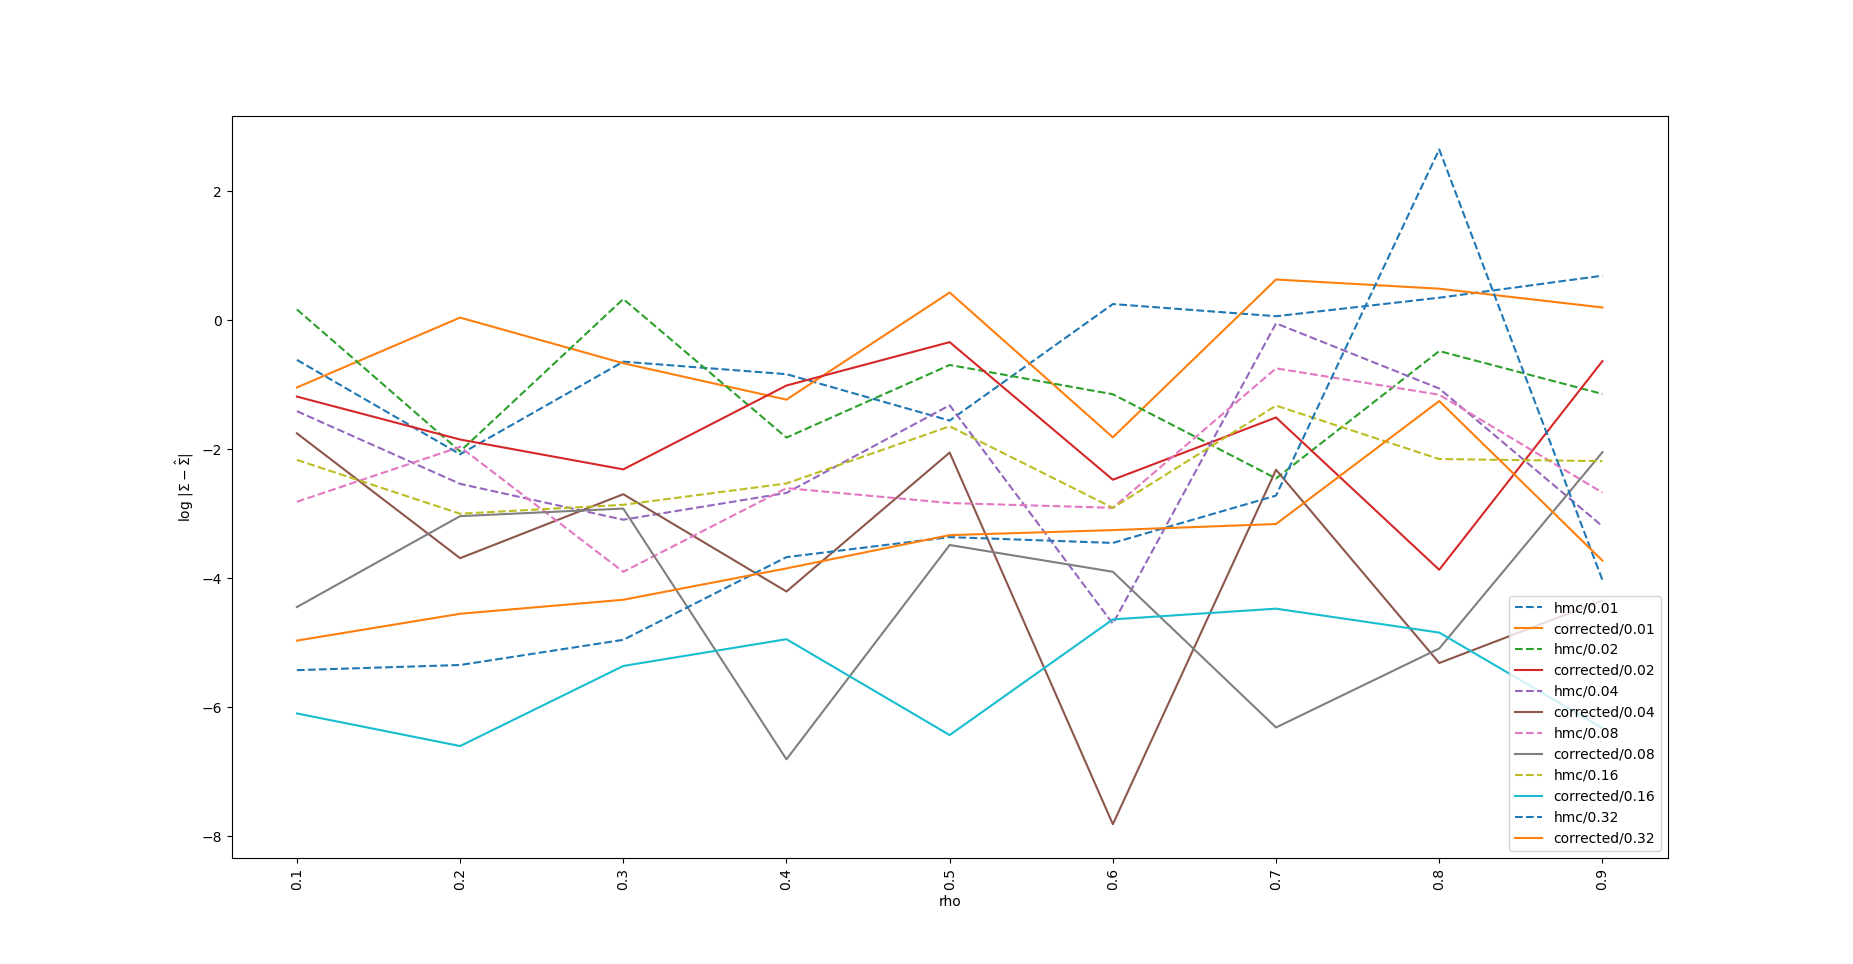
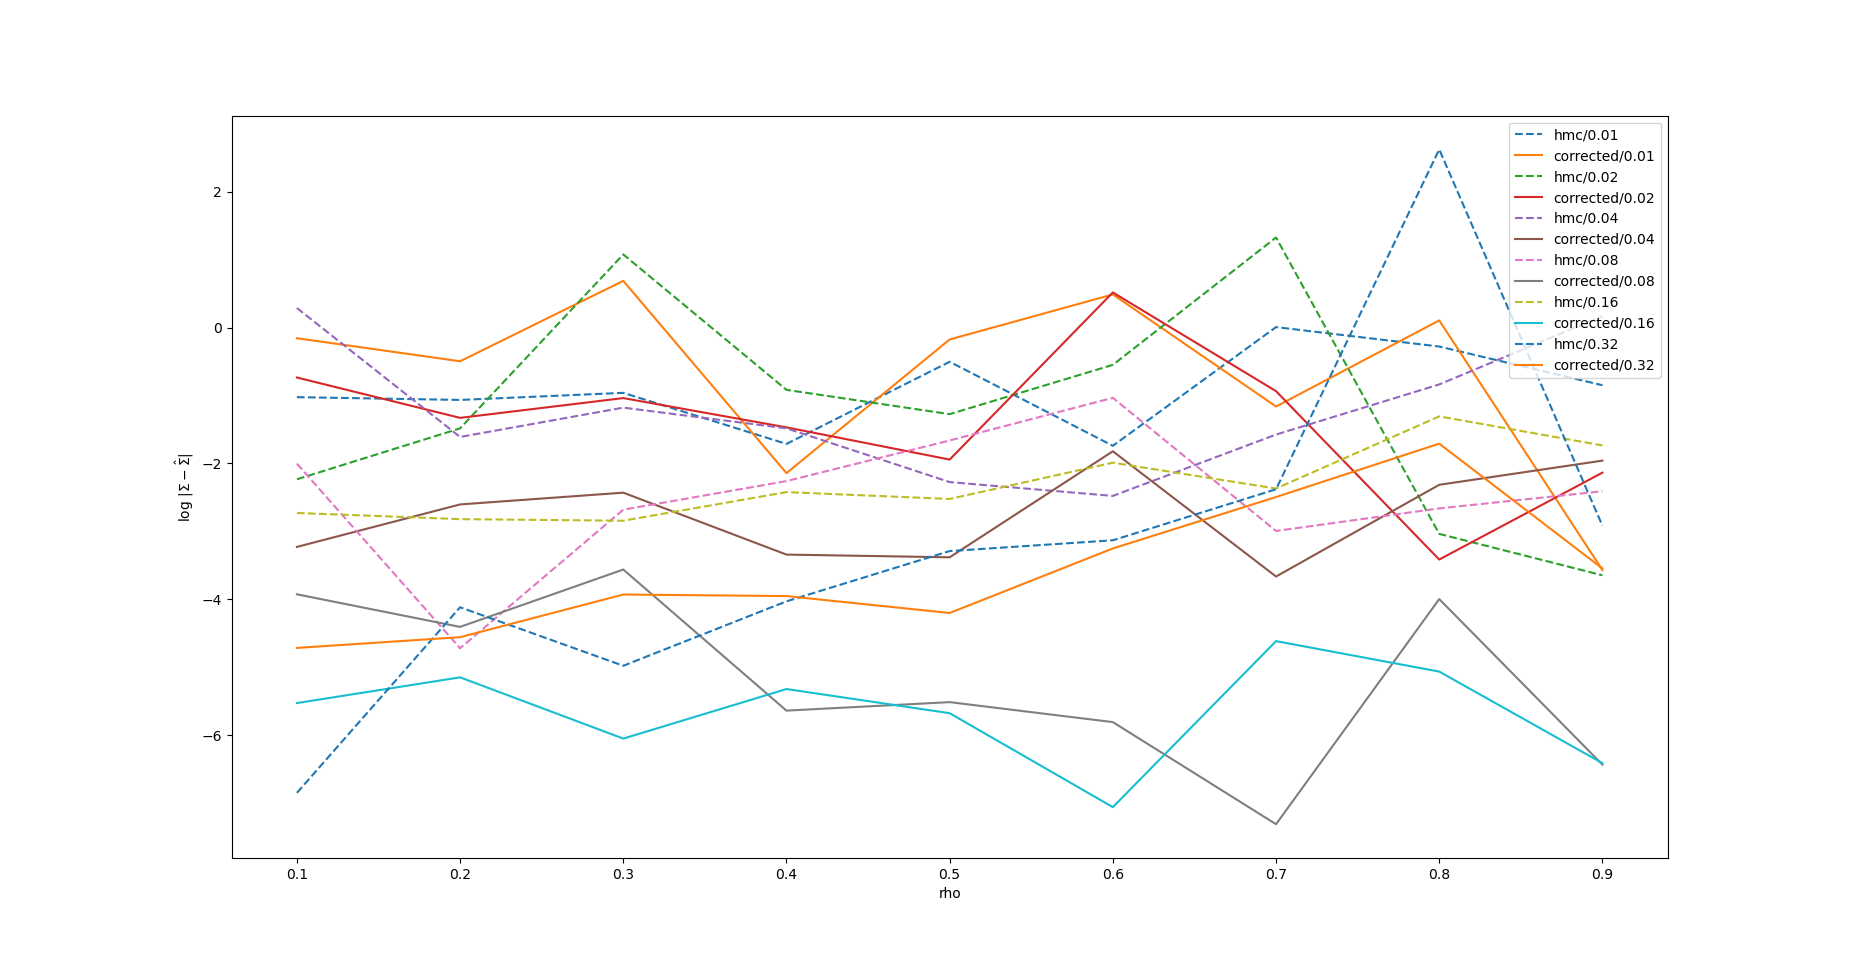
commit

diff --git a/hmc1.html b/hmc1.html
@@ -3,7 +3,7 @@
 "http://www.w3.org/TR/xhtml1/DTD/xhtml1-strict.dtd">
 <html xmlns="http://www.w3.org/1999/xhtml" lang="en" xml:lang="en">
 <head>
-<!-- 2020-05-27 Wed 14:51 -->
+<!-- 2020-05-27 Wed 15:44 -->
 <meta http-equiv="Content-Type" content="text/html;charset=utf-8" />
 <meta name="viewport" content="width=device-width, initial-scale=1" />
 <title>&lrm;</title>
@@ -26,9 +26,9 @@
 <h2>Table of Contents</h2>
 <div id="text-table-of-contents">
 <ul>
-<li><a href="#org2d606e8">Metropolis</a>
+<li><a href="#orgd17e080">Metropolis</a>
 <ul>
-<li><a href="#orge205c0c">Metropolis</a></li>
+<li><a href="#org2d606e8">Metropolis</a></li>
 <li><a href="#orge63d099">Metropolis-Hastings</a></li>
 <li><a href="#org364893f">Relation of the two Metropolis algorithm</a></li>
 </ul>
@@ -121,13 +121,13 @@
 <p>
 受到krauth的statistical mechanics algorithm and computation的启发，我们采用扔皮球的方式进行讨论。
 </p>
-<div id="outline-container-org2d606e8" class="outline-2">
-<h2 id="org2d606e8">Metropolis</h2>
-<div class="outline-text-2" id="text-org2d606e8">
+<div id="outline-container-orgd17e080" class="outline-2">
+<h2 id="orgd17e080">Metropolis</h2>
+<div class="outline-text-2" id="text-orgd17e080">
 </div>
-<div id="outline-container-orge205c0c" class="outline-3">
-<h3 id="orge205c0c">Metropolis</h3>
-<div class="outline-text-3" id="text-orge205c0c">
+<div id="outline-container-org2d606e8" class="outline-3">
+<h3 id="org2d606e8">Metropolis</h3>
+<div class="outline-text-3" id="text-org2d606e8">
 <p>
 此时从位置a扔一个皮球，假设皮球只能落在位置a,b,c，而且皮球将等可能地落在这三个位置上。
 </p>
@@ -311,7 +311,24 @@
 
 <p>
 虚线为哈密顿蒙特卡洛所的接受概率产生的误差，实线为采用更正后公式的结果。在步长很小或者很大的情况下，两种方案的结果区别不大。
-当步长合适的情况下，更正公式产生的误差要小于原来方案。
+</p>
+
+<p>
+当步长合适的情况下，比如从0.08到1.6，更正公式产生的误差要明显小于原来公式产生的结果。
+</p>
+
+
+<div class="figure">
+<p><img src="./ltximg/vanilla2.png" alt="vanilla2.png" />
+</p>
+</div>
+
+<p>
+对这种采样结果依赖于步长参数的现象可以解释为：在步长不适当的情况下，哈密顿仿真无法产生理想的目标轨迹，因此即使是正确的接受概率公式，也无法抽样出产生理想的样本。
+</p>
+
+<p>
+这也从一个侧面说明步长参数的重要性，我们将在其它博文中介绍步长参数的自动调节方法。
 </p>
 
 <p>
@@ -401,7 +418,7 @@
 </div>
 </div>
 <div id="postamble" class="status">
-<p class="date">Created: 2020-05-27 Wed 14:51</p>
+<p class="date">Created: 2020-05-27 Wed 15:44</p>
 </div>
 </body>
 </html>

diff --git a/sitemap.html b/sitemap.html
@@ -3,7 +3,7 @@
 "http://www.w3.org/TR/xhtml1/DTD/xhtml1-strict.dtd">
 <html xmlns="http://www.w3.org/1999/xhtml" lang="en" xml:lang="en">
 <head>
-<!-- 2020-05-27 Wed 14:52 -->
+<!-- 2020-05-27 Wed 15:44 -->
 <meta http-equiv="Content-Type" content="text/html;charset=utf-8" />
 <meta name="viewport" content="width=device-width, initial-scale=1" />
 <title>Sitemap</title>
@@ -32,7 +32,7 @@
 </ul>
 </div>
 <div id="postamble" class="status">
-<p class="date">Created: 2020-05-27 Wed 14:52</p>
+<p class="date">Created: 2020-05-27 Wed 15:44</p>
 </div>
 </body>
 </html>
